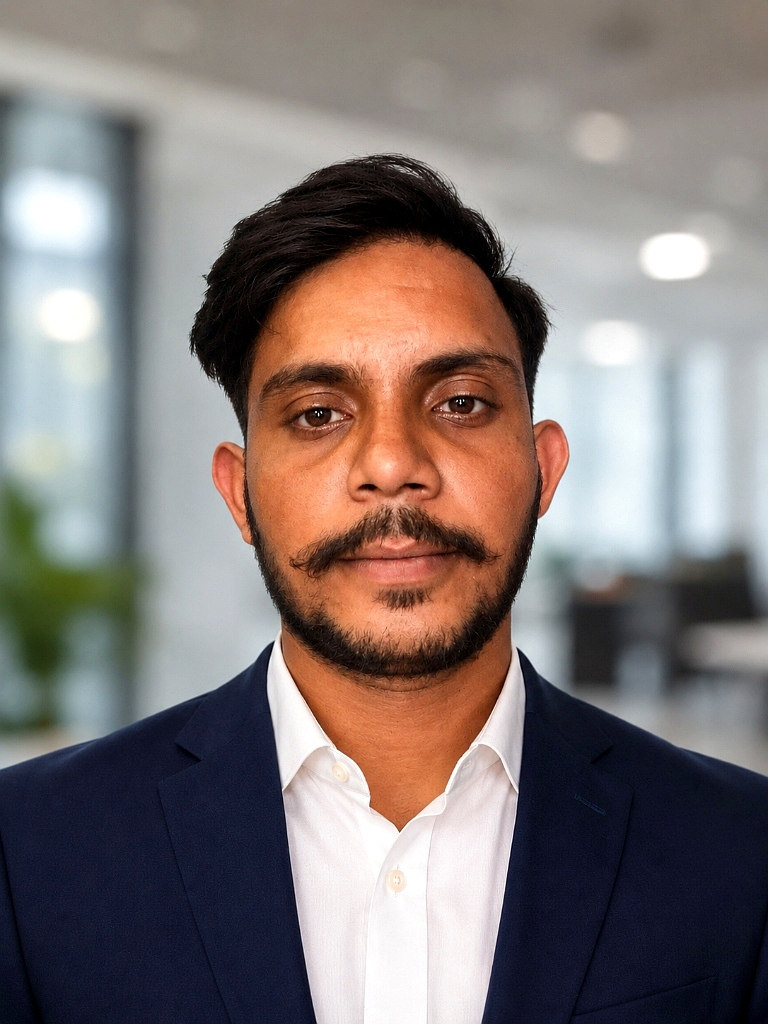
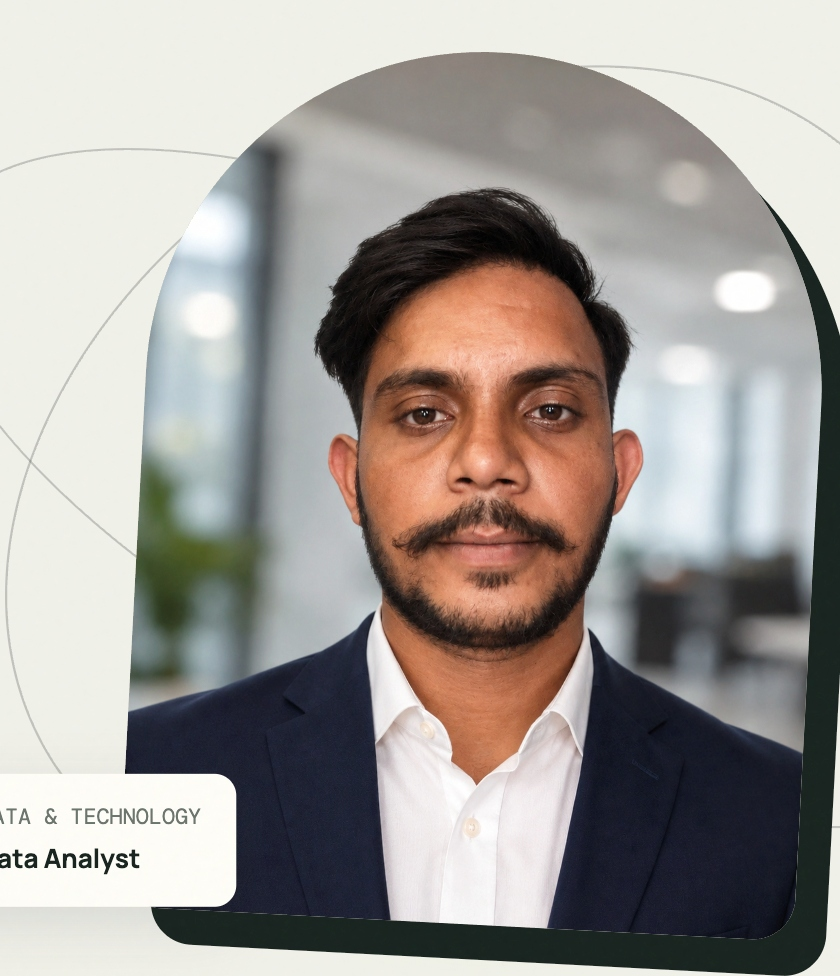
Update profile picture with ultra high definition photo and arched dome frame styling

diff --git a/css/style.css b/css/style.css
@@ -510,7 +510,7 @@ img {
 }
 
 /* --------------------------------------------------------------------------
-   7. Hero Section & HD Picture Rendering
+   7. Hero Section & Arched HD Picture Rendering
    -------------------------------------------------------------------------- */
 .hero {
   min-height: 100vh;
@@ -609,7 +609,7 @@ img {
   letter-spacing: 0.5px;
 }
 
-/* High Definition Profile Card */
+/* Arched Dome Profile Card matching reference design */
 .hero-image-wrapper {
   position: relative;
   display: flex;
@@ -618,12 +618,12 @@ img {
 
 .profile-card {
   position: relative;
-  width: 360px;
-  height: 440px;
-  border-radius: 28px;
-  padding: 12px;
-  background: linear-gradient(135deg, rgba(255,255,255,0.15), rgba(255,255,255,0.03));
-  border: 1px solid rgba(255, 255, 255, 0.2);
+  width: 380px;
+  height: 480px;
+  border-radius: 190px 190px 36px 36px;
+  padding: 10px;
+  background: linear-gradient(135deg, rgba(255,255,255,0.18), rgba(255,255,255,0.03));
+  border: 1px solid rgba(255, 255, 255, 0.25);
   box-shadow: var(--shadow-lg), var(--shadow-purple-glow);
   backdrop-filter: blur(20px);
 }
@@ -631,7 +631,7 @@ img {
 .profile-img-container {
   width: 100%;
   height: 100%;
-  border-radius: 20px;
+  border-radius: 180px 180px 28px 28px;
   overflow: hidden;
   position: relative;
   background: #0d0e15;
@@ -641,15 +641,14 @@ img {
   width: 100%;
   height: 100%;
   object-fit: cover;
-  object-position: center top;
-  filter: contrast(1.08) brightness(1.04) saturate(1.05);
+  object-position: center 10%;
   image-rendering: -webkit-optimize-contrast;
   transition: transform 0.6s var(--ease-out-expo);
   transform: translateZ(0);
 }
 
 .profile-card:hover .profile-img {
-  transform: scale(1.04);
+  transform: scale(1.03);
 }
 
 /* Floating Tech Badges */
@@ -672,14 +671,14 @@ img {
 }
 
 .badge-1 {
-  top: 10%;
-  left: -30px;
+  top: 15%;
+  left: -25px;
   border-color: rgba(99, 102, 241, 0.4);
 }
 
 .badge-2 {
-  bottom: 15%;
-  right: -30px;
+  bottom: 12%;
+  right: -25px;
   border-color: rgba(168, 85, 247, 0.4);
   animation-delay: -2s;
 }
